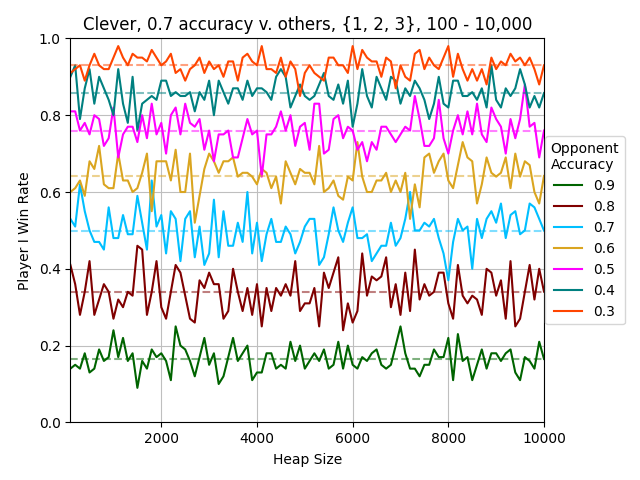
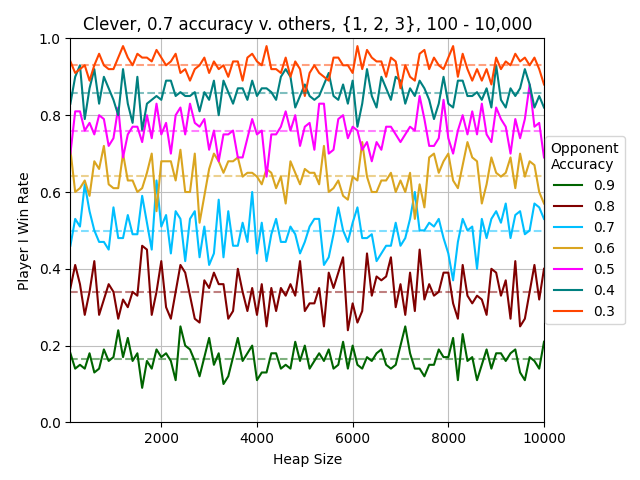
Fixed AWR graph ends

Changed region(s): [[0.0938, 0.0938, 0.875, 0.8125]]

diff --git a/graphing.py b/graphing.py
@@ -18,7 +18,7 @@ titles = [
 rolling = 0
 
 if __name__ == "__main__":
-  #"""
+  """
   # Heatmap: in col. idx vs. in row idx
   for (frame, title) in zip(dfs, titles):
     vals = frame.iloc[2:104]
@@ -44,7 +44,7 @@ if __name__ == "__main__":
     #  index=avg_bare.index, 
     #  columns=avg_bare.columns)
     #deviance = 1 - (avg_bare + avg_t)
-    #"""
+    #""/"
     
     fig, ax = plt.subplots()
     norm = clr.Normalize(vmin=cvs.min().min(),
@@ -69,9 +69,9 @@ if __name__ == "__main__":
     ax.set_title(title)
     plt.savefig(f"graphs/{title}.png")
     plt.clf()
-  #"""
+  """
   #print(rolling)
-  """ Line graphs
+  #""" Line graphs
   xax = range(100, 10001, 100)
   colors = ['darkgreen', 'maroon', 'deepskyblue', 
             'goldenrod', 'magenta', 'teal', 'orangered']
@@ -107,5 +107,5 @@ if __name__ == "__main__":
       plt.subplots_adjust(left=0.11, right=0.85, top=0.92, bottom=0.12)
       plt.savefig(f"graphs/{title}.png")
       plt.clf()
-"""
+#"""
   plt.close('all')
